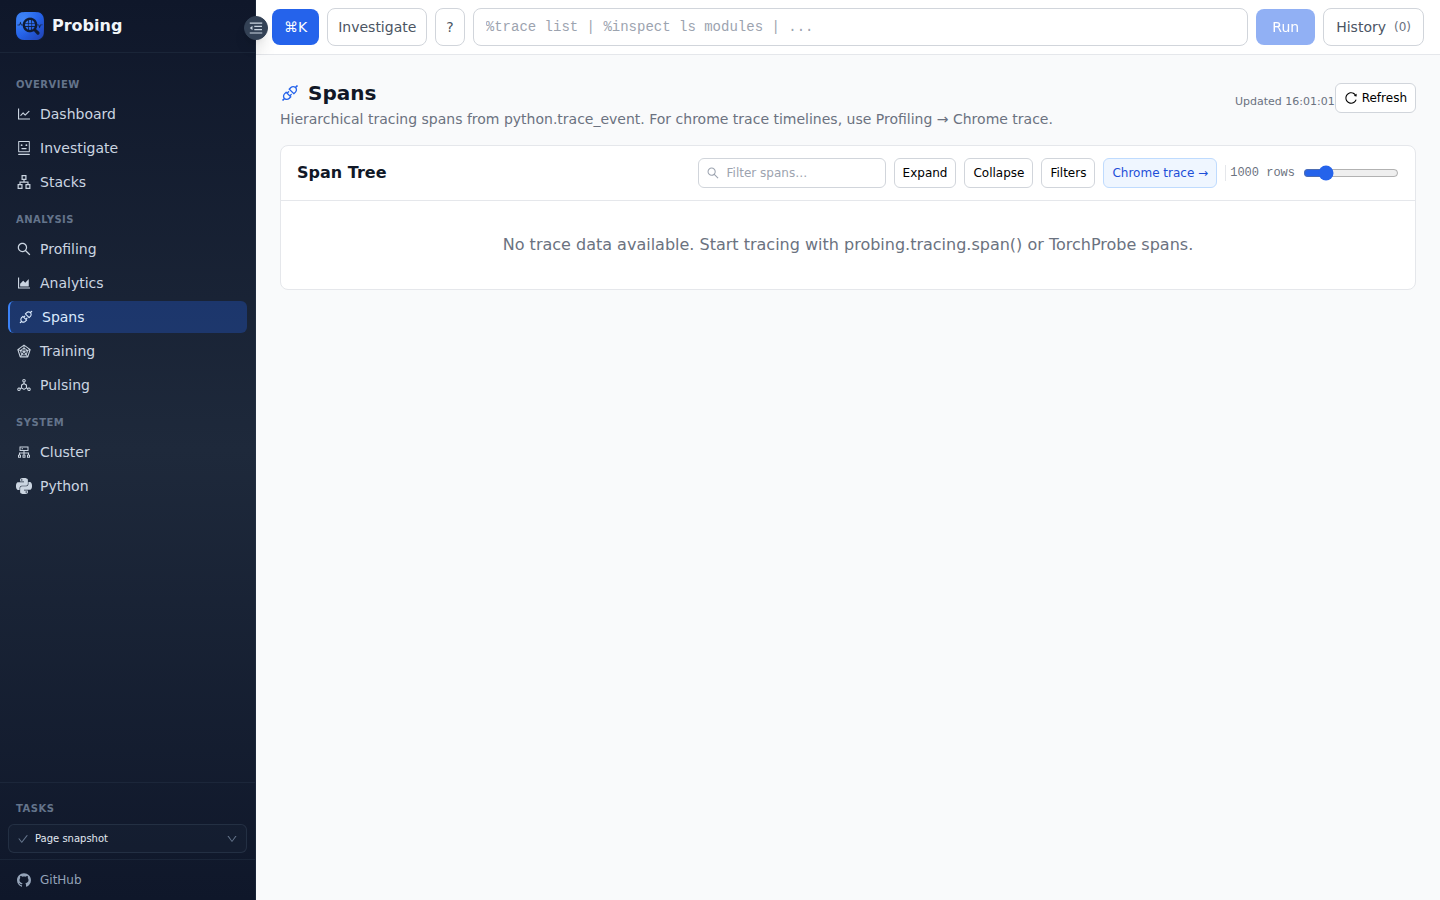
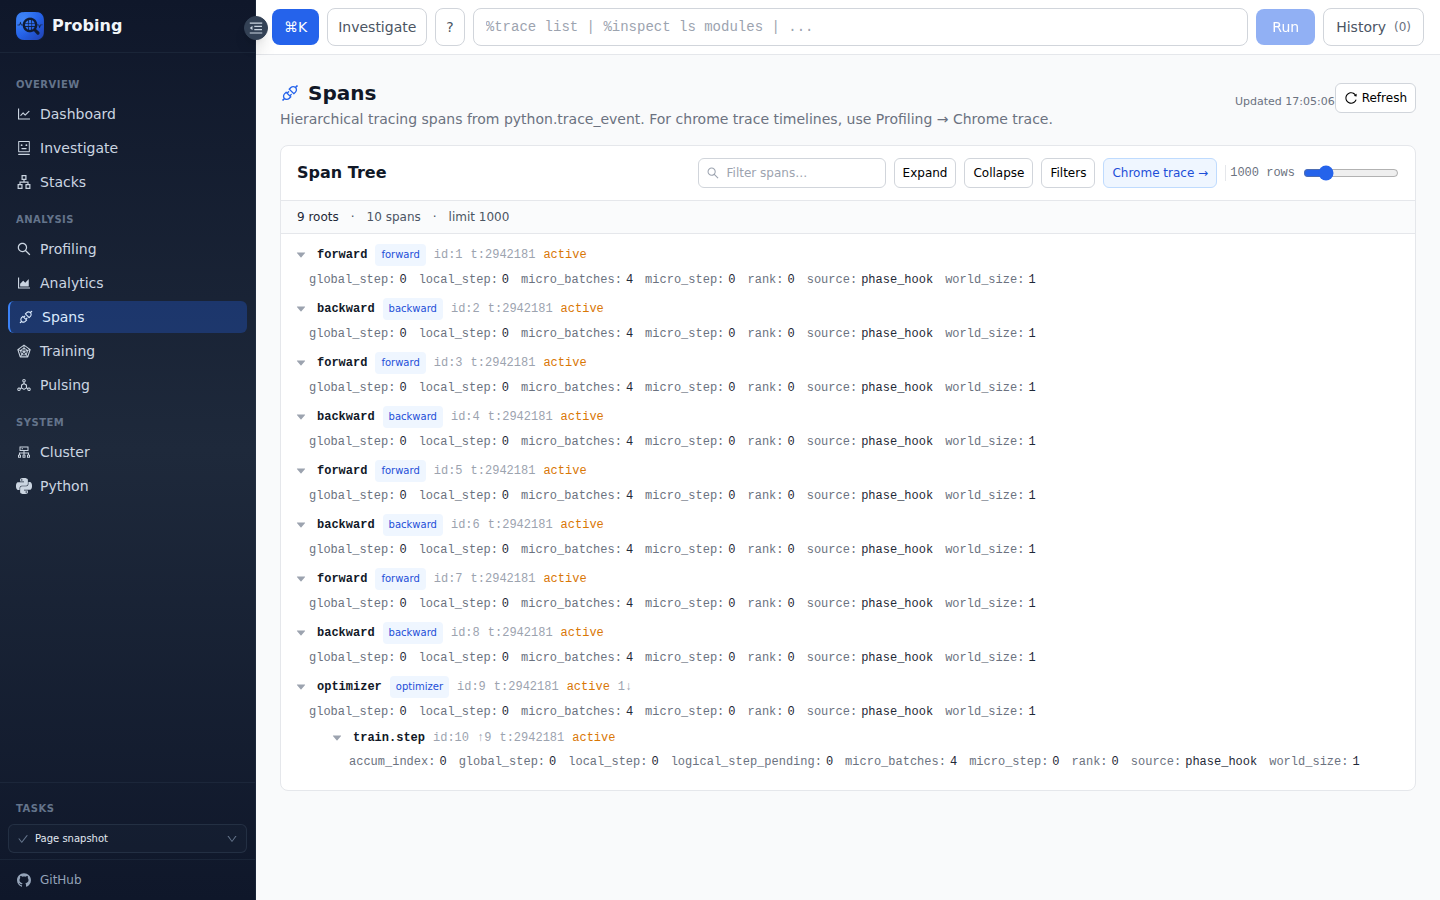
为 Megatron 接入 probing phase span 并重采 Web 素材。
新增 pretrain_gpt_probing 入口，patch pipeline forward/backward 与 optimizer.step，使 /spans 与 Training 页有真实 trace 数据。

diff --git a/scripts/megatron_probing_patch.py b/scripts/megatron_probing_patch.py
@@ -1,0 +1,114 @@
+"""Monkey-patch Megatron training to emit probing phase spans."""
+
+from __future__ import annotations
+
+import logging
+import types
+
+logger = logging.getLogger(__name__)
+_INSTALLED = False
+
+
+def _patch_pipeline_phases() -> None:
+    import megatron.core.pipeline_parallel.schedules as schedules
+
+    if getattr(schedules, "_probing_sched_patched", False):
+        return
+
+    orig_forward = schedules.forward_step
+    orig_backward = schedules.backward_step
+
+    def forward_step(*args, **kwargs):
+        from probing.tracing.phases import FORWARD, hook_enter, hook_exit
+
+        hook_enter(FORWARD)
+        try:
+            return orig_forward(*args, **kwargs)
+        finally:
+            hook_exit(FORWARD)
+
+    def backward_step(*args, **kwargs):
+        from probing.tracing.phases import BACKWARD, hook_enter, hook_exit
+
+        hook_enter(BACKWARD)
+        try:
+            return orig_backward(*args, **kwargs)
+        finally:
+            hook_exit(BACKWARD)
+
+    schedules.forward_step = forward_step
+    schedules.backward_step = backward_step
+    schedules._probing_sched_patched = True
+
+
+def _wrap_optimizer_step(optimizer) -> None:
+    if optimizer is None or getattr(optimizer, "_probing_step_wrapped", False):
+        return
+
+    chained = getattr(optimizer, "chained_optimizers", None)
+    if chained:
+        for inner in chained:
+            _wrap_optimizer_step(inner)
+
+    from probing.tracing.phases import OPTIMIZER, hook_enter, hook_exit
+
+    orig_step = optimizer.step
+
+    def step(*args, **kwargs):
+        hook_enter(OPTIMIZER)
+        try:
+            return orig_step(*args, **kwargs)
+        finally:
+            hook_exit(OPTIMIZER)
+
+    optimizer.step = types.MethodType(step, optimizer)
+    optimizer._probing_step_wrapped = True
+
+
+def _attach_probing(_model, optimizer, _opt_param_scheduler) -> None:
+    try:
+        import probing
+    except ImportError:
+        return
+    if not probing.is_enabled():
+        return
+
+    from megatron.core.num_microbatches_calculator import get_num_microbatches
+
+    try:
+        nmb = get_num_microbatches()
+        if nmb and nmb > 1:
+            probing.step(micro_batches=int(nmb))
+    except Exception:
+        pass
+
+    _patch_pipeline_phases()
+    _wrap_optimizer_step(optimizer)
+
+    try:
+        from megatron.training import print_rank_0
+
+        print_rank_0("[probing] Megatron phase spans enabled (pipeline + optimizer)")
+    except Exception:
+        pass
+
+
+def install() -> None:
+    global _INSTALLED
+    if _INSTALLED:
+        return
+    import megatron.training.training as mt
+
+    original = mt.setup_model_and_optimizer
+
+    def setup_model_and_optimizer(*args, **kwargs):
+        result = original(*args, **kwargs)
+        try:
+            model, opt, sched = result
+            _attach_probing(model, opt, sched)
+        except Exception as exc:
+            logger.warning("probing attach failed: %s", exc)
+        return result
+
+    mt.setup_model_and_optimizer = setup_model_and_optimizer
+    _INSTALLED = True

diff --git a/scripts/pretrain_gpt_probing.py b/scripts/pretrain_gpt_probing.py
@@ -1,0 +1,40 @@
+#!/usr/bin/env python3
+"""Megatron pretrain_gpt 入口：自动 attach probing training phase spans."""
+from __future__ import annotations
+
+import os
+import runpy
+import sys
+from pathlib import Path
+
+_SCRIPTS = Path(__file__).resolve().parent
+_MEGATRON = Path(os.environ.get("MEGATRON_ROOT", "/home/yjr/work/Megatron-LM"))
+
+if str(_SCRIPTS) not in sys.path:
+    sys.path.insert(0, str(_SCRIPTS))
+if str(_MEGATRON) not in sys.path:
+    sys.path.insert(0, str(_MEGATRON))
+
+import megatron_probing_patch
+
+
+def _wrap_pretrain() -> None:
+    import megatron.training
+    import megatron.training.training as mt
+
+    if getattr(mt, "_probing_pretrain_wrapped", False):
+        return
+    original = mt.pretrain
+
+    def pretrain(*args, **kwargs):
+        megatron_probing_patch.install()
+        return original(*args, **kwargs)
+
+    mt.pretrain = pretrain
+    megatron.training.pretrain = pretrain
+    mt._probing_pretrain_wrapped = True
+
+
+_wrap_pretrain()
+
+runpy.run_path(str(_MEGATRON / "pretrain_gpt.py"), run_name="__main__")